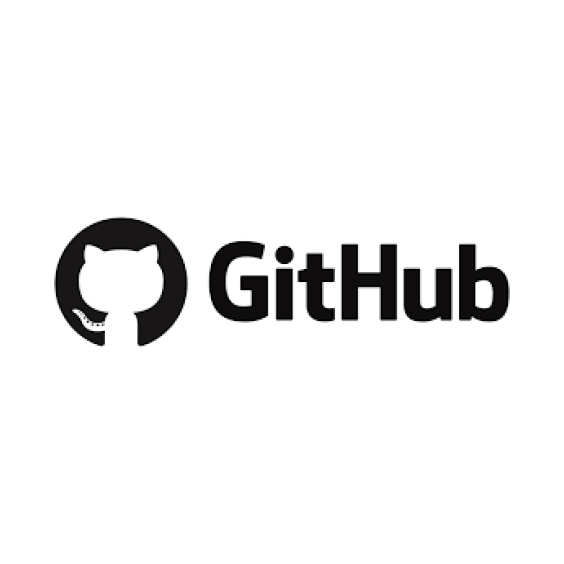
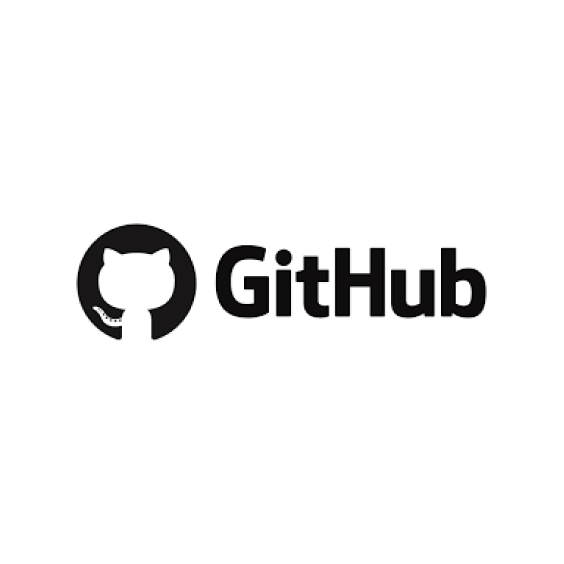
updated sponsors

Changed region(s): [[0.0904, 0.3617, 0.9043, 0.633]]

diff --git a/src/components/syruscomponents/Sponsor.jsx b/src/components/syruscomponents/Sponsor.jsx
@@ -11,38 +11,38 @@ import XYZ from '../../assets/sponsors/XYZ.png';
 function Sponsor() {
   return (
     <section id="sponsors" className="bg-[#121211] py-6 text-white">
-      <div className='container mx-auto px-2 py-2'>
-        <h2 className="internal-headings" data-text="SPONSORS">SPONSORS</h2>
+      <div className='container mx-auto px-2 mt-3 py-2'>
+        <h2 className="internal-headings" data-text="OUR SPONSORS">OUR SPONSORS</h2>
       </div>
       <div className="main_sponsor">
-        <div className="sponsor-container">
+        <div className="mainSponsorgrid">
           <div className="sponsorCategory">
               <h3 className="text-xl font-bold text-center my-4">Powered by</h3>
-              <div className="sponsorItems flex flex-wrap justify-center gap-4">
+              <div className="mainSponsorgridDiv flex flex-wrap justify-center gap-4">
               <div  className="sponsorItem">
                     <img src={Unstop} alt="unstop.png" className="sponsor_img w-40" />
                 </div>
             </div>
             </div>
-        </div>
-      </div>
-      <div className="main_sponsor">
-        <div className="sponsor-container">
-          <div className="sponsorCategory">
+            <div className="sponsorCategory">
               <h3 className="text-xl font-bold text-center my-4">Title Sponsor</h3>
-              <div className="sponsorItems flex flex-wrap justify-center gap-4">
+              <div className="mainSponsorgridDiv flex flex-wrap justify-center gap-4">
               <div  className="sponsorItem">
                     <img src={Uptiq} alt="unstop.png" className="sponsor_img w-40" />
                 </div>
             </div>
             </div>
-        </div>
-      </div>
-      <div className="main_sponsor">
-        <div className="sponsor-container">
-          <div className="sponsorCategory">
+            <div className="sponsorCategory">
+              <h3 className="text-xl font-bold text-center my-4">Operations Partner</h3>
+              <div className="mainSponsorgridDiv flex flex-wrap justify-center gap-4">
+              <div  className="sponsorItem">
+                    <img src={Github} alt="unstop.png" className="sponsor_img w-40" />
+                </div>
+            </div>
+            </div>
+            <div className="sponsorCategory">
               <h3 className="text-xl font-bold text-center my-4">Networking Partner</h3>
-              <div className="sponsorItems flex flex-wrap justify-center gap-4">
+              <div className="mainSponsorgridDiv flex flex-wrap justify-center gap-4">
               <div  className="sponsorItem">
                     <img src={Sprect} alt="unstop.png" className="sponsor_img w-40" />
                 </div>
@@ -50,6 +50,7 @@ function Sponsor() {
             </div>
         </div>
       </div>
+
       <div className="main_sponsor">
         <div className="sponsor-container">
           <div className="sponsorCategory">
@@ -66,7 +67,7 @@ function Sponsor() {
         <div className="sponsor-container">
           <div className="sponsorCategory">
               <h3>Associate Sponsors</h3>
-              <div className="sponsorItems flex flex-wrap justify-center gap-4">
+              <div className="assosiateSponsorItems flex flex-wrap justify-center gap-4">
               <div  className="sponsorItem">
                     <img src={Fueler} alt="unstop.png" className="sponsor_img w-40" />
                 </div>

diff --git a/src/components/syruscomponents/Header.jsx b/src/components/syruscomponents/Header.jsx
@@ -61,6 +61,11 @@ function Header() {
         </Navbar.Toggle>
         <Navbar.Collapse id="basic-navbar-nav">
           <Nav className="ms-auto">
+              {/* <Nav.Link href="#sponsors" 
+              className={activeLink === 'sponsors' ? 'active navbar-link' : 'navbar-link'} 
+              onClick={() => onUpdateActiveLink('sponsors')}>
+              Sponsors
+            </Nav.Link> */}
             <Nav.Link href="#timeline" 
               className={activeLink === 'timeline' ? 'active navbar-link' : 'navbar-link'} 
               onClick={() => onUpdateActiveLink('timeline')}>
@@ -69,7 +74,7 @@ function Header() {
             <Nav.Link href="#domain" 
               className={activeLink === 'domain' ? 'active navbar-link' : 'navbar-link'} 
               onClick={() => onUpdateActiveLink('domain')}>
-              Domain
+              Domains
             </Nav.Link>
             {/* <Nav.Link href="#sponsors" 
               className={activeLink === 'sponsors' ? 'active navbar-link' : 'navbar-link'} 
@@ -84,9 +89,9 @@ function Header() {
             <Nav.Link href="#faq-section" 
               className={activeLink === 'faq-section' ? 'active navbar-link' : 'navbar-link'} 
               onClick={() => onUpdateActiveLink('faq-section')}>
-              Faq
+              FAQs
             </Nav.Link>
-            <Nav.Link href="#sponsorsus" 
+            {/* <Nav.Link href="#sponsorsus" 
               className={activeLink === 'sponsorsus' ? 'active navbar-link' : 'navbar-link'} 
               onClick={handleShow}>
               Sponsor Us?
@@ -94,8 +99,8 @@ function Header() {
               <Modal
         show={show}
         onHide={handleClose}
-        backdrop="static"
-        keyboard={false}
+        backdrop="true" 
+        keyboard={true}
       >
         <Modal.Body>
           <SponsorUs />
@@ -105,7 +110,7 @@ function Header() {
             Close
           </Button>
         </Modal.Footer>
-      </Modal>
+      </Modal> */}
           </Nav>
         </Navbar.Collapse>
       </Container>

diff --git a/src/components/syruscomponents/Faq.jsx b/src/components/syruscomponents/Faq.jsx
@@ -47,21 +47,21 @@ function Faq() {
   return (
     <section className="bg-[#121211] text-white" id="faq-section">
       <div className="container mx-auto px-3 py-4">
-        <h2 className="internal-headings" data-text="FAQS">FAQS</h2>
+        <h2 className="internal-headings" data-text="FAQs">FAQs</h2>
         <div className="max-w-6xl mx-auto">
           {faqData.map((item, index) => (
             <div key={index} className="border-b border-[#ff3535] overflow">
               <button
                 onClick={() => toggleFAQ(index)}
-                className={`w-full text-left p-4 flex justify-between items-center bg-[#121211] hover:cursor-pointer transition-colors ${activeIndex === index ? 'text-[#ff3535] font-medium font-sans text-lg' : ""} `}
+                className={`w-full text-left flex justify-between items-center bg-[#121211] hover:cursor-pointer transition-colors ${activeIndex === index ? 'text-[#ff3535] font-medium text-lg p-2' : "p-4"} `}
               >
-                <span className="font-semibold">{item.question}</span>
+                <span className="font-bold">{item.question}</span>
                 <FaSpider
                   className={`transform transition-transform ${activeIndex === index ? 'rotate-180' : 'rotate-0'}`}
                 />
               </button>
               <div
-                className={`overflow-hidden transition-max-height duration-500 ${activeIndex === index ? 'max-h-40' : 'max-h-0'}`}
+                className={`overflow-hidden transition-max-height duration-500 ${activeIndex === index ? 'max-h-20' : 'max-h-0'}`}
               >
                 <p className="px-4 py-3 text-white">{item.answer}</p>
               </div>

diff --git a/src/pages/Syrus/Syrus.css b/src/pages/Syrus/Syrus.css
@@ -783,6 +783,29 @@ button {
     }
 }
 
+.mainSponsorgrid {
+    display: grid;
+    grid-template-columns: repeat(4, 1fr);
+    gap: 5rem;
+    margin-bottom: 1rem !important;
+    align-items: center;
+    justify-content: center;
+
+    h3 {
+        font-size: 2.5rem;
+        line-height: 1.1;
+        font-weight: bold;
+        text-align: center;
+        color: white;
+        font-family: 'Outfit', sans-serif;
+    }
+}
+
+.mainSponsorgridDiv div {
+    width: 200px;
+    height: 200px;
+}
+
 .modal-dialog {
     max-width: 900px;
     z-index: 9999;
@@ -817,6 +840,15 @@ button {
     display: grid;
     grid-template-columns: repeat(3, 1fr);
     gap: 5rem;
+    margin-bottom: 1rem !important;
+    align-items: center;
+    justify-content: center;
+}
+
+.assosiateSponsorItems {
+    display: grid;
+    grid-template-columns: repeat(4, 1fr);
+    gap: 4rem;
     margin-bottom: 1rem !important;
     align-items: center;
     justify-content: center;
@@ -945,7 +977,7 @@ button {
 
 .sponsor-card .card-text {
     color: #fff;
-    text-align: justify;
+    text-align: left;
 }
 
 .cta-button-primary {

diff --git a/src/components/syruscomponents/SponsorUs.jsx b/src/components/syruscomponents/SponsorUs.jsx
@@ -7,7 +7,7 @@ function SponsorUs(){
             <Container>
                 <Card className="main-card">
                 <Card.Body>
-                    <h1 className="sponsor-title">Want to Sponsor Us?</h1>
+                    <h1 className="sponsor-title">Want to Help Us?</h1>
                     <p className="sponsor-subtitle">
                         With great power comes great responsibility - Help us empower the next generation of tech heroes
                     </p>

diff --git a/src/components/syruscomponents/Domain.jsx b/src/components/syruscomponents/Domain.jsx
@@ -3,7 +3,7 @@ function Domain() {
   return (
     <section className="domain-section" id="domain">
     <div className=' container mx-auto px-2 py-2'>
-      <h2 className="internal-headings" data-text="Domains">Domains</h2>
+      <h2 className="internal-headings" data-text="DOMAINS">DOMAINS</h2>
     </div>
         <div className="card-container">
         <div className="domain-card">

diff --git a/src/components/syruscomponents/Banner.jsx b/src/components/syruscomponents/Banner.jsx
@@ -12,7 +12,7 @@ function Banner() {
   const [delta, setDelta] = useState(300 - Math.random() * 100);
   const [index, setIndex] = useState(1);
   const toRotate = ["Integrate", "Collaborate", "Innovate"];
-  const period = 1000;
+  const period = 400;
 
   useEffect(() => {
     let ticker = setInterval(() => {

diff --git a/src/pages/Syrus/Syrus.jsx b/src/pages/Syrus/Syrus.jsx
@@ -23,9 +23,9 @@ function Syrus() {
     <>
         <Header />
         <Banner />
+        <Sponsor />
         <Timeline />
         <Domain />
-        <Sponsor />
         <Gallery />
         <Faq />
         <SyrusFooter />

diff --git a/src/components/syruscomponents/Gallery.jsx b/src/components/syruscomponents/Gallery.jsx
@@ -41,7 +41,7 @@ function Gallery() {
     </h2>
     <Carousel
       swipeable={true}
-      draggable={true}
+      draggable={false}
       autoPlay={true}
       arrows={true}
       responsive={responsive}
